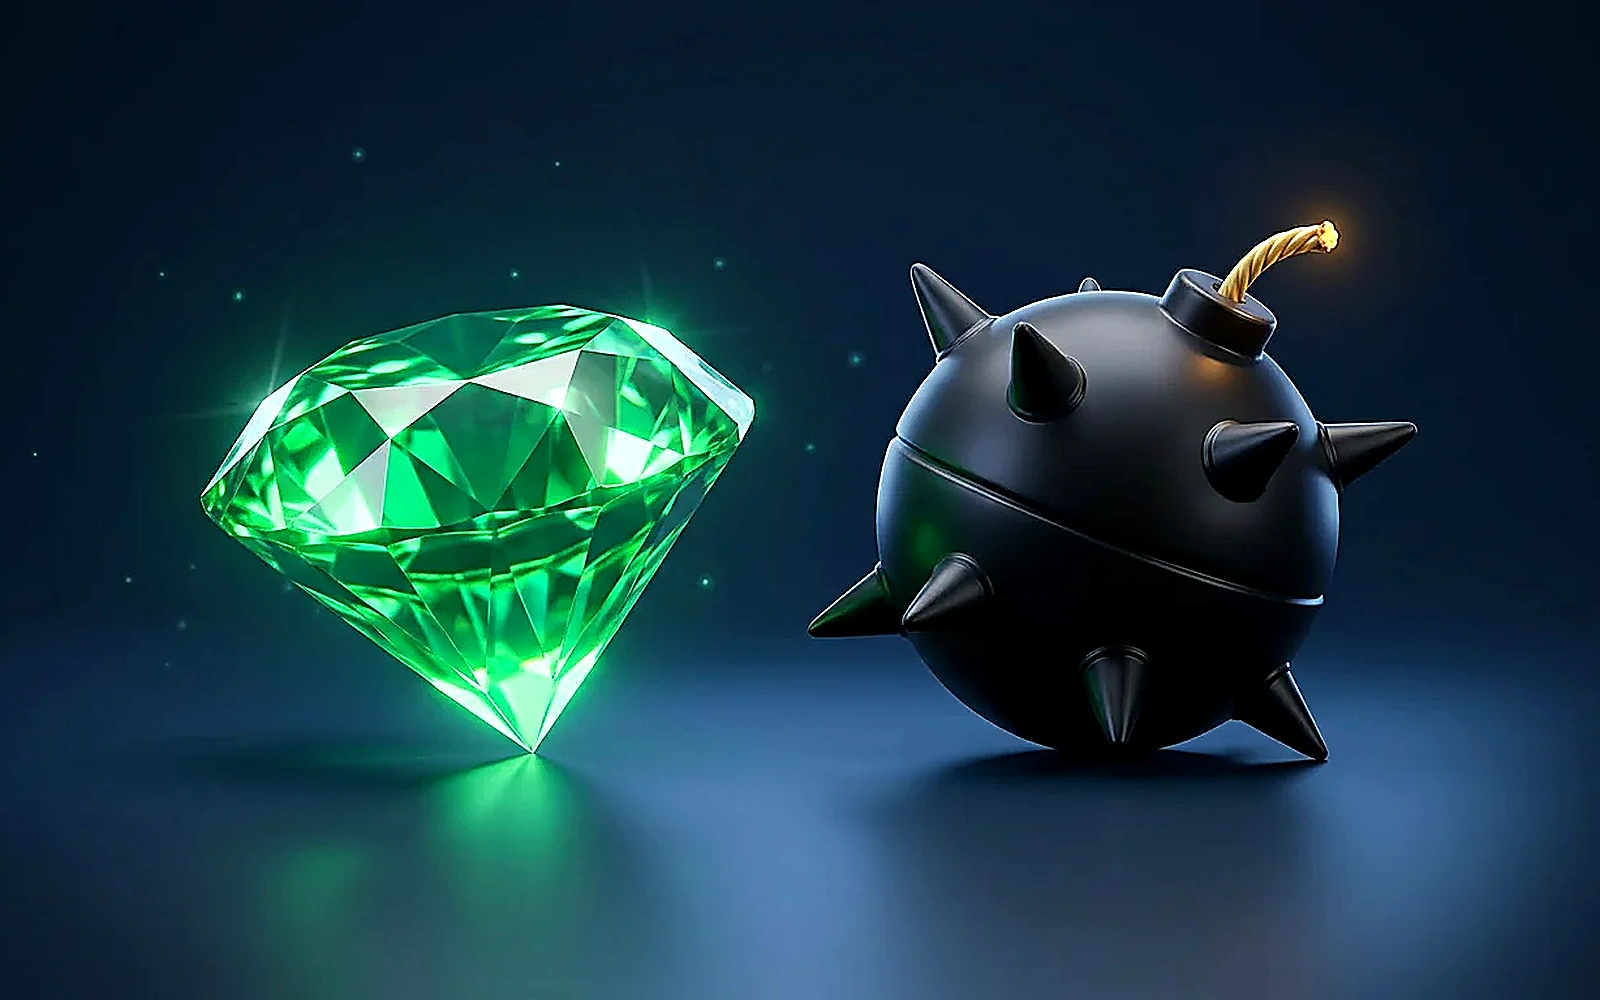
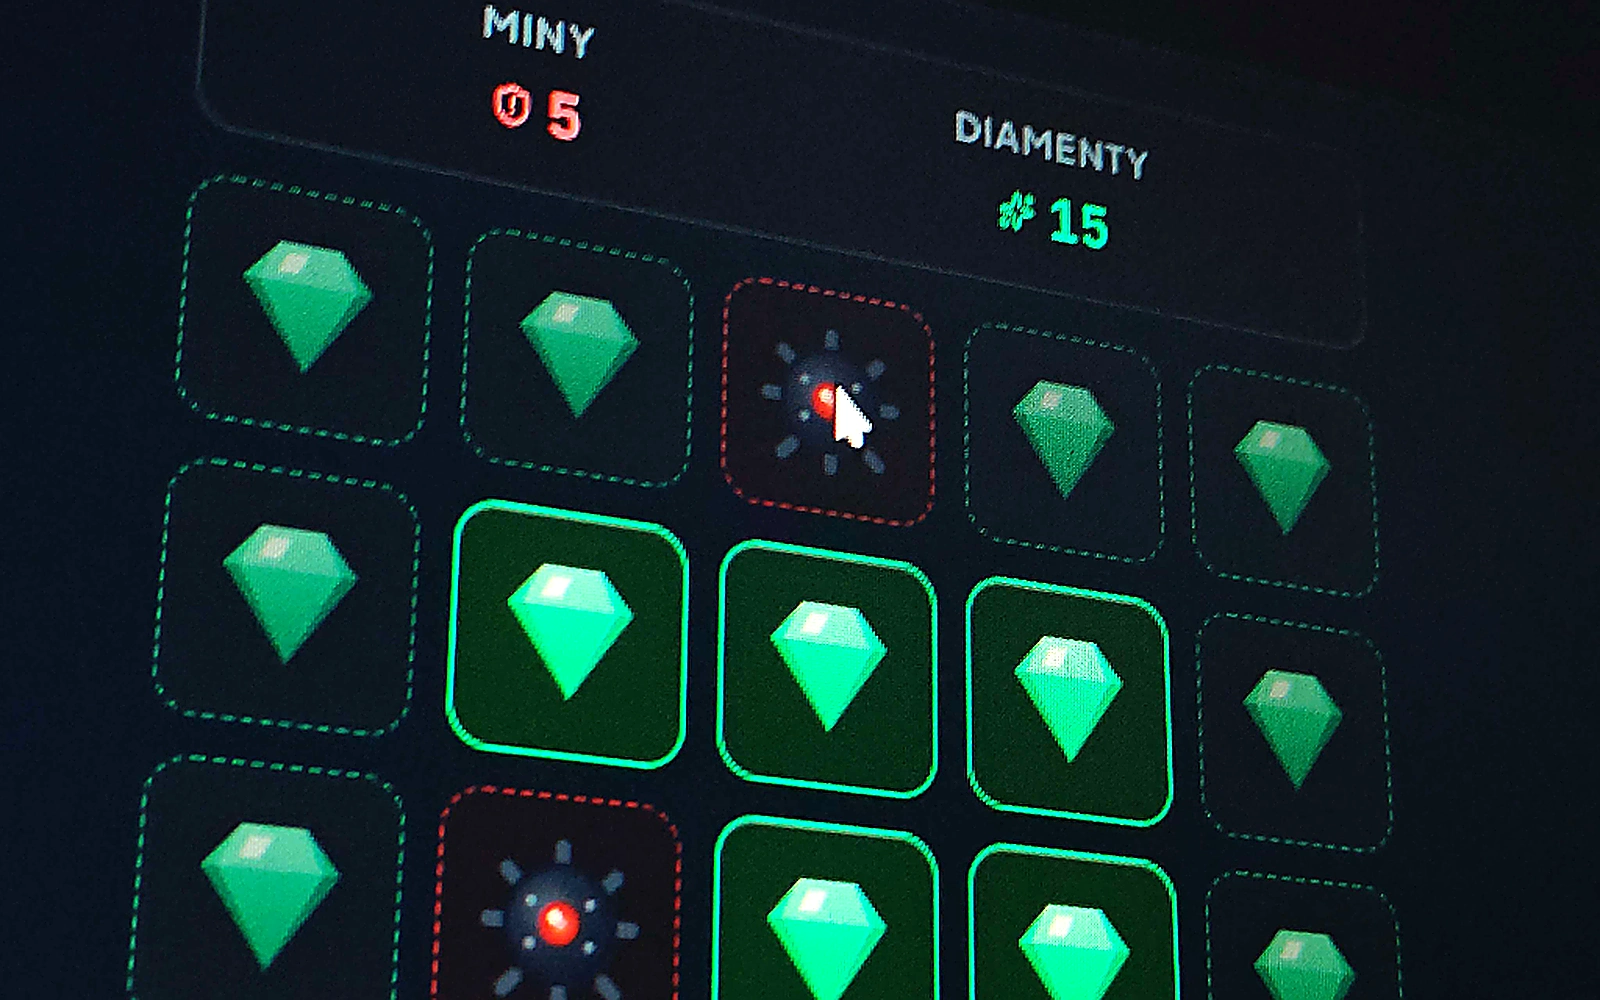
style: redesign balance chip component and update FgtChip styling

diff --git a/frontend/src/index.css b/frontend/src/index.css
@@ -344,37 +344,81 @@ body {
 }
 
 .balance-chip {
-  display: flex;
+  display: inline-flex;
   align-items: center;
-  gap: 0.35rem;
-  background: rgba(245, 158, 11, 0.08);
-  border: 1px solid rgba(245, 158, 11, 0.22);
-  box-shadow: inset 0 1px 0 rgba(251, 191, 36, 0.16), 0 2px 8px rgba(0, 0, 0, 0.25);
-  padding: 3px 8px;
-  border-radius: 9999px;
+  gap: 0.45rem;
+  background: #0f121b;
+  border: 1px solid rgba(255, 255, 255, 0.08);
+  box-shadow: inset 0 1px 0 rgba(255, 255, 255, 0.06), 0 2px 8px rgba(0, 0, 0, 0.35);
+  padding: 3px 6px 3px 5px;
+  border-radius: 9px;
   white-space: nowrap;
   flex-shrink: 0;
-  transition: all 0.15s ease;
+  transition: all 0.15s cubic-bezier(0.16, 1, 0.3, 1);
+  user-select: none;
 }
 
 .balance-chip:hover {
-  border-color: rgba(245, 158, 11, 0.4);
+  border-color: rgba(245, 158, 11, 0.35);
+  background: #131724;
+}
+
+.balance-icon-wrap {
+  display: flex;
+  align-items: center;
+  justify-content: center;
+  width: 22px;
+  height: 22px;
+  border-radius: 6px;
   background: rgba(245, 158, 11, 0.12);
+  border: 1px solid rgba(245, 158, 11, 0.3);
+  color: #fbbf24;
+  font-weight: 900;
+  font-size: 0.75rem;
+  font-family: var(--font-mono);
+  flex-shrink: 0;
+}
+
+.balance-val-group {
+  display: flex;
+  align-items: baseline;
+  gap: 0.25rem;
+  padding-right: 0.25rem;
 }
 
 .balance-val {
   font-family: var(--font-mono);
   font-variant-numeric: tabular-nums;
-  font-weight: 700;
-  font-size: 0.82rem;
+  font-weight: 800;
+  font-size: 0.85rem;
   letter-spacing: -0.01em;
-  color: #fbbf24;
+  color: #f8fafc;
+}
+
+.balance-curr {
+  font-family: var(--font-mono);
+  font-size: 0.65rem;
+  font-weight: 700;
+  color: #f59e0b;
+  letter-spacing: 0.02em;
 }
 
 @media (min-width: 768px) {
+  .balance-chip {
+    padding: 4px 8px 4px 6px;
+    gap: 0.5rem;
+    border-radius: 10px;
+  }
+  .balance-icon-wrap {
+    width: 24px;
+    height: 24px;
+    font-size: 0.8rem;
+  }
   .balance-val {
     font-size: 0.95rem;
-    padding: 2px 4px;
+  }
+  .balance-curr {
+    font-size: 0.7rem;
   }
 }
 

diff --git a/frontend/src/components/BetControls.jsx b/frontend/src/components/BetControls.jsx
@@ -3,9 +3,9 @@ import React from "react";
 export function FgtChip({ small = false, className = "" }) {
   return (
     <span
-      className={`inline-flex items-center justify-center rounded-full font-bold font-mono tracking-tighter ${
-        small ? "w-4 h-4 text-[9px]" : "w-5 h-5 text-[10px]"
-      } bg-gradient-to-tr from-amber-600 via-amber-400 to-yellow-200 text-amber-950 border border-amber-300 shadow-[0_0_8px_rgba(245,158,11,0.4)] ${className}`}
+      className={`inline-flex items-center justify-center rounded-[5px] font-black font-mono tracking-tight select-none ${
+        small ? "w-4 h-4 text-[9px]" : "w-5 h-5 text-[11px]"
+      } bg-amber-500/15 text-amber-400 border border-amber-400/30 ${className}`}
       aria-hidden="true"
     >
       $

diff --git a/frontend/src/App.jsx b/frontend/src/App.jsx
@@ -570,8 +570,11 @@ export default function App() {
           </button>
 
           <div className="balance-chip" title="Stan Twojego portfela">
-            <FgtChip small />
-            <span className="balance-val">{data ? money(data.player.balance) : "—"}</span>
+            <div className="balance-icon-wrap" aria-hidden="true">$</div>
+            <div className="balance-val-group">
+              <span className="balance-val">{data ? format(data.player.balance) : "—"}</span>
+              <span className="balance-curr">$FGT</span>
+            </div>
           </div>
 
           <button
